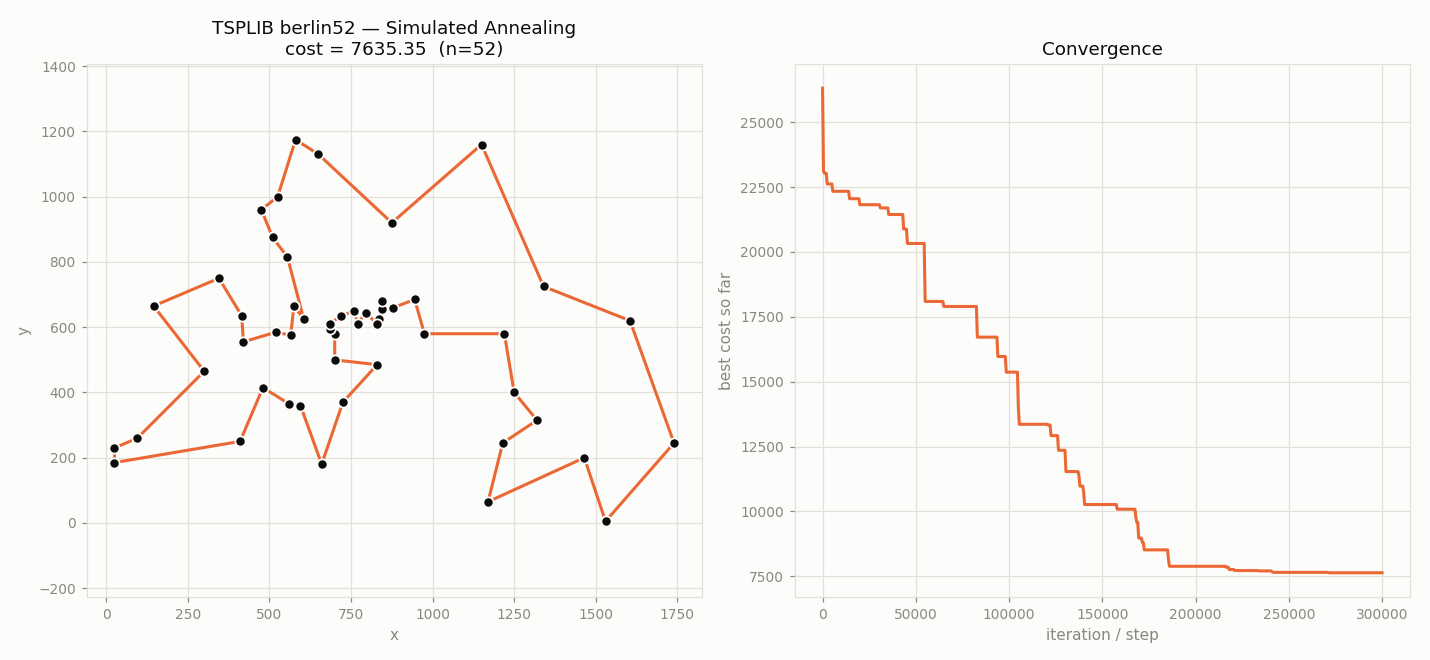
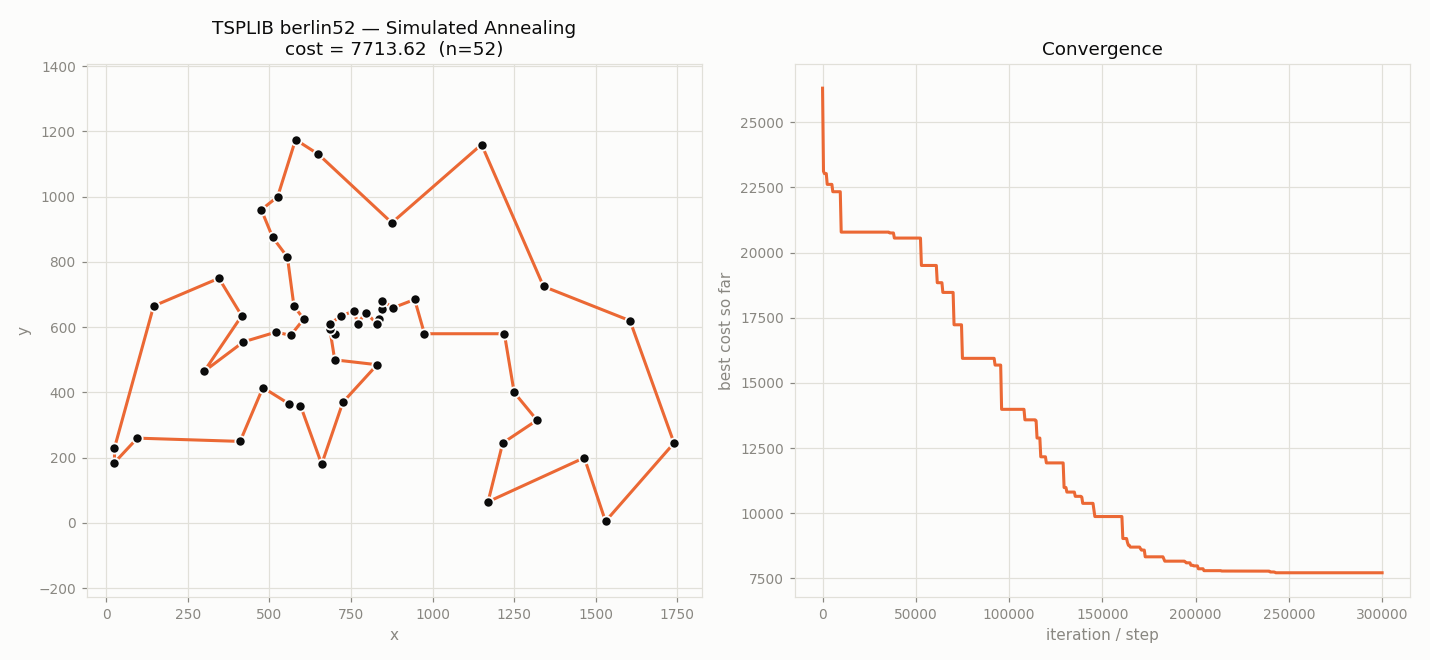
plot_solution.py ve make_tour_animation.py'de aynı soğuma bugını düzelt
streamlit_app.py'de bulunan düzeltme (sabit cooling_alpha=0.995
yerine adım bütçesine göre ölçeklenen oran) burada da uygulandı,
üç yerde de aynı SA yapılandırma mantığı olsun diye. 300k adımda
sayısal etkisi küçük (0.995 zaten neredeyse tam soğuyordu) ama
tutarlılık ve gelecekte farklı bütçelerle çalıştırılırsa doğruluk
için önemli. berlin52 SA görselleri yeniden üretildi.

diff --git a/src/experiments/plot_solution.py b/src/experiments/plot_solution.py
@@ -37,13 +37,18 @@ LABELS = {"aco": "Ant Colony Optimization", "sa": "Simulated Annealing"}
 
 def solve(instance: TSPInstance, algo: str, seed: int):
     if algo == "sa":
+        # Scale the cooling rate to the step budget so the schedule always
+        # finishes annealing (temperature down to ~0.2% of its start) within it.
+        max_steps = 300_000
+        iters_per_temp = instance.n * 5
+        num_coolings = max(1, max_steps // iters_per_temp)
         cfg = SAConfig(
             init_accept_prob=0.8,
             uphill_samples=100,
-            cooling_alpha=0.995,
-            iters_per_temp=instance.n * 5,
+            cooling_alpha=0.002 ** (1 / num_coolings),
+            iters_per_temp=iters_per_temp,
             min_temp=1e-12,
-            max_steps=300_000,
+            max_steps=max_steps,
             log_interval=500,
             seed=seed,
             use_step_budget_only=True,

diff --git a/src/experiments/make_tour_animation.py b/src/experiments/make_tour_animation.py
@@ -41,12 +41,16 @@ LABELS = {"aco": "Ant Colony Optimization", "sa": "Simulated Annealing"}
 
 def solve(instance: TSPInstance, algo: str, seed: int):
     if algo == "sa":
+        # Scale the cooling rate to the step budget so the schedule always
+        # finishes annealing (temperature down to ~0.2% of its start) within it.
         max_steps = 300_000
+        iters_per_temp = instance.n * 5
+        num_coolings = max(1, max_steps // iters_per_temp)
         cfg = SAConfig(
             init_accept_prob=0.8,
             uphill_samples=100,
-            cooling_alpha=0.995,
-            iters_per_temp=instance.n * 5,
+            cooling_alpha=0.002 ** (1 / num_coolings),
+            iters_per_temp=iters_per_temp,
             min_temp=1e-12,
             max_steps=max_steps,
             log_interval=max(1, max_steps // TARGET_FRAMES),
